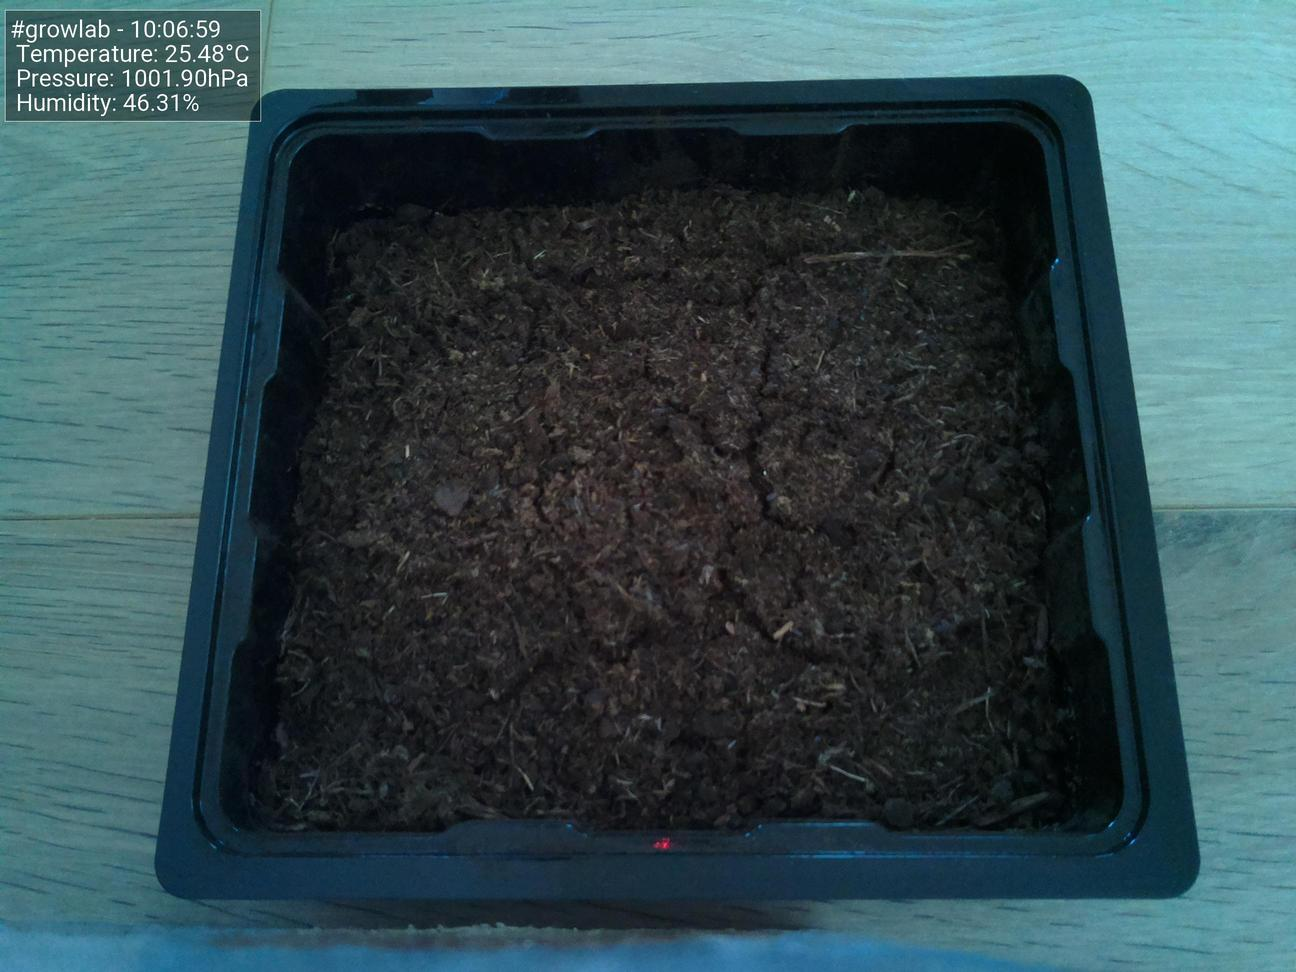
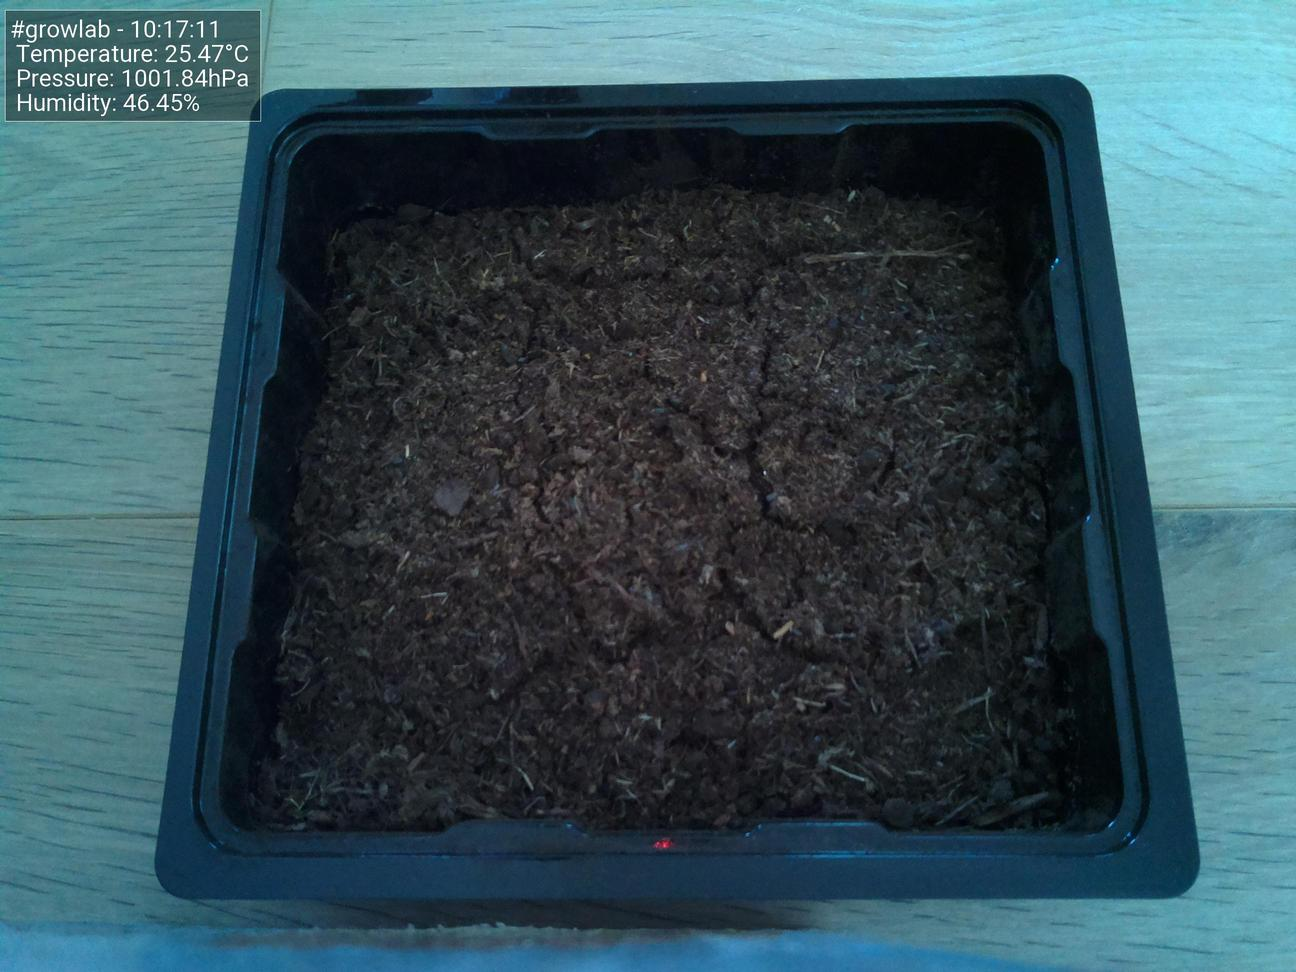
Update images at Wed 26 May 10:17:16 CEST 2021

Changed region(s): [[0.4012, 0.0, 1.0, 0.4938], [0.1235, 0.0, 0.1852, 0.1235], [0.9877, 0.4938, 1.0, 0.5247]]

diff --git a/docs/index.html b/docs/index.html
@@ -47,19 +47,19 @@
                         <tbody>
                             <tr>
                                 <td>Time</td>
-                                <td>10:06:59</td>
+                                <td>10:17:11</td>
                             </tr>
                             <tr>
                                 <td>Temperature</td>
-                                <td>25.48°C</td>
+                                <td>25.47°C</td>
                             </tr>
                             <tr>
                                 <td>Humidity</td>
-                                <td>46.31%</td>
+                                <td>46.45%</td>
                             </tr>
                             <tr>
                                 <td>Pressure</td>
-                                <td>1001.90hPa</td>
+                                <td>1001.84hPa</td>
                             </tr>
                         </tbody>
                     </table>
@@ -67,7 +67,7 @@
 
                 <h5>Latest image</h5>
                 <div style="width: 85%;">
-                            <img class="figure-img img-fluid rounded" src="./preview.jpg?uid=1622016422.9877017">
+                            <img class="figure-img img-fluid rounded" src="./preview.jpg?uid=1622017035.838951">
                 </div>
             </div>
         </div>
